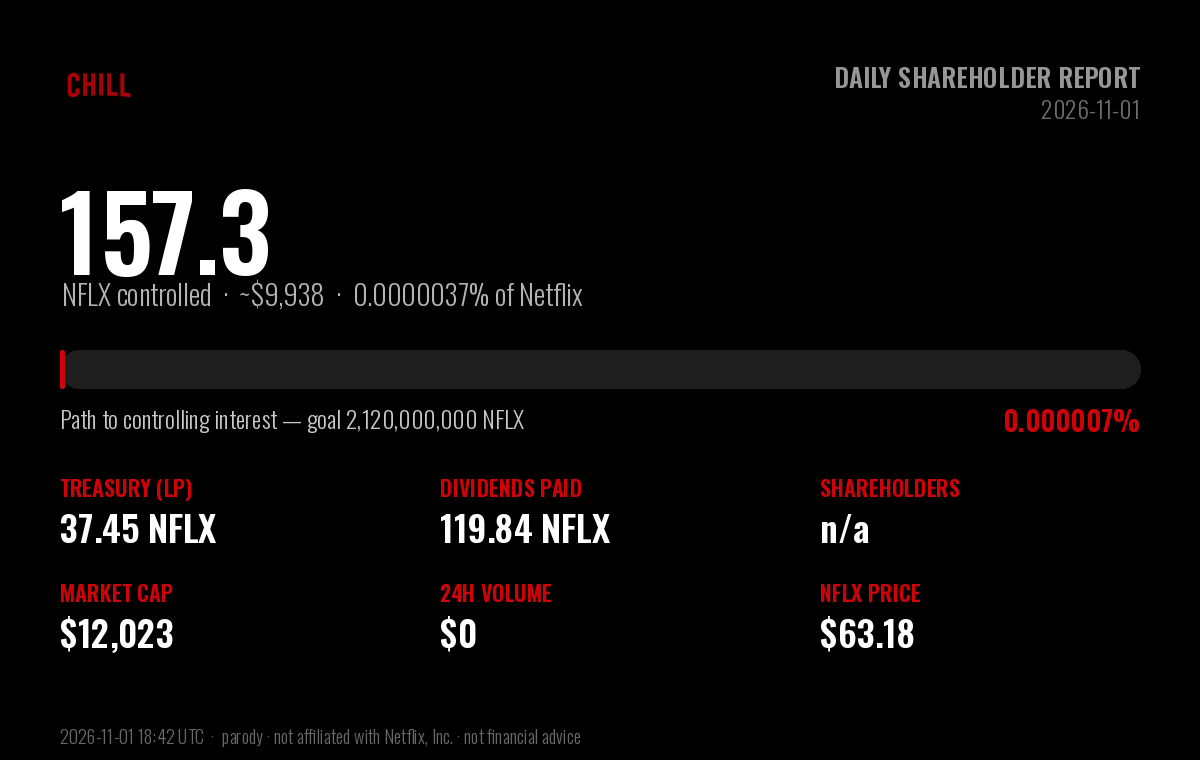
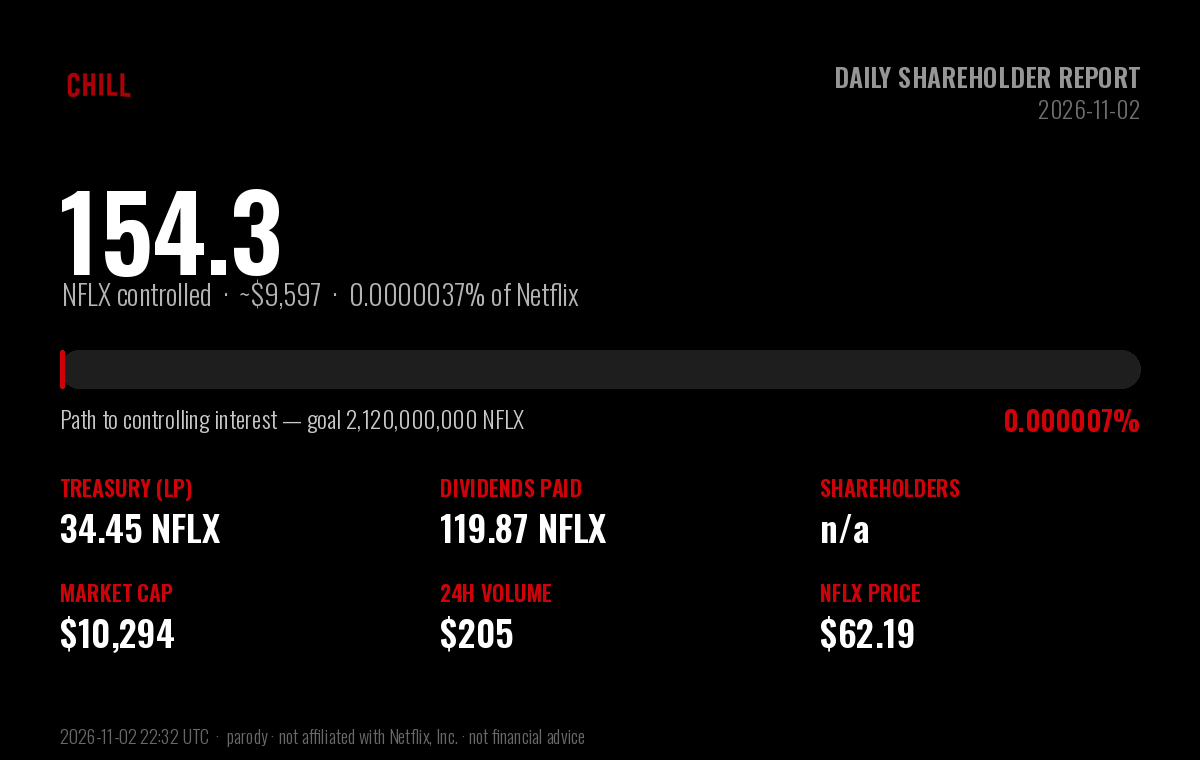
chore: daily $CHILL shareholder report (2026-11-02)

diff --git a/daily-holder-report/README.md b/daily-holder-report/README.md
@@ -1,6 +1,6 @@
 # $CHILL — Daily Shareholder Report
 
-### Netflix and Chill · Report to Shareholders · 2026-11-01
+### Netflix and Chill · Report to Shareholders · 2026-11-02
 
 > **Corporate objective:** acquire a controlling interest in Netflix (NFLX).
 > Netflix has **4,220,000,000** shares outstanding; a majority
@@ -13,53 +13,53 @@
 
 | Metric | Value |
 |---|---|
-| **NFLX under $CHILL control** | **157.30 NFLX** (~$9,938) |
-| Stake in Netflix | 0.000003727% of shares outstanding |
-| Progress to controlling interest | 0.0000074% of 2,120,000,000 |
-| Shares remaining to majority | 2,119,999,843 NFLX |
+| **NFLX under $CHILL control** | **154.32 NFLX** (~$9,597) |
+| Stake in Netflix | 0.000003657% of shares outstanding |
+| Progress to controlling interest | 0.0000073% of 2,120,000,000 |
+| Shares remaining to majority | 2,119,999,846 NFLX |
 
 ## Balance sheet — NFLX holdings
 
 | Holding | NFLX | USD |
 |---|---|---|
-| Treasury (protocol-owned liquidity) | 37.45 | $2,366 |
-| Dividends distributed to shareholders | 119.84 | $7,572 |
-| **Total NFLX controlled** | **157.30** | **$9,938** |
+| Treasury (protocol-owned liquidity) | 34.45 | $2,142 |
+| Dividends distributed to shareholders | 119.87 | $7,455 |
+| **Total NFLX controlled** | **154.32** | **$9,597** |
 
 ## Last 24 hours
 
 | Metric | Value |
 |---|---|
-| Trading volume | 0.00 NFLX (~$0) |
-| Net NFLX accumulated | 0.00 NFLX |
-| Dividends generated | 0.0000 NFLX |
-| Transactions | 0 (0 buys / 0 sells) |
-| $CHILL price change | -8.1% |
+| Trading volume | 3.30 NFLX (~$205) |
+| Net NFLX accumulated | -3.01 NFLX |
+| Dividends generated | 0.0330 NFLX |
+| Transactions | 4 (3 buys / 1 sells) |
+| $CHILL price change | -14.4% |
 
 ## Shareholder & market data
 
 | Metric | Value |
 |---|---|
 | Shareholders of record | n/a |
-| Lifetime unique participants | 1821 |
+| Lifetime unique participants | 1823 |
 | Shares outstanding ($CHILL) | 1,000,000,000 |
-| Market capitalization | $12,023 |
-| $CHILL price | $0.00001202 |
-| NFLX price | $63.18 |
-| Lifetime volume | 11,984.12 NFLX (~$757,152) |
-| Lifetime transactions | 8,624 (4,818 buys / 3,806 sells) |
-| Days since IPO (launch) | 105 |
+| Market capitalization | $10,294 |
+| $CHILL price | $0.00001029 |
+| NFLX price | $62.19 |
+| Lifetime volume | 11,987.42 NFLX (~$745,490) |
+| Lifetime transactions | 8,628 (4,821 buys / 3,807 sells) |
+| Days since IPO (launch) | 106 |
 
 ## Per-share metrics
 
 | Metric | Value |
 |---|---|
-| NFLX backing per 1M $CHILL | 0.157296 NFLX |
-| Dividends per 1M $CHILL | 0.119841 NFLX |
+| NFLX backing per 1M $CHILL | 0.154323 NFLX |
+| Dividends per 1M $CHILL | 0.119874 NFLX |
 
 ---
 
-*Report generated 2026-11-01 18:42 UTC · block 103,601,331 · data via the Sentry-Robinhood
+*Report generated 2026-11-02 22:32 UTC · block 104,572,273 · data via the Sentry-Robinhood
 subgraph and Robinhood Chain explorer.*
 
 **Disclaimer:** $CHILL is an independent, community-driven **parody** token. It is
